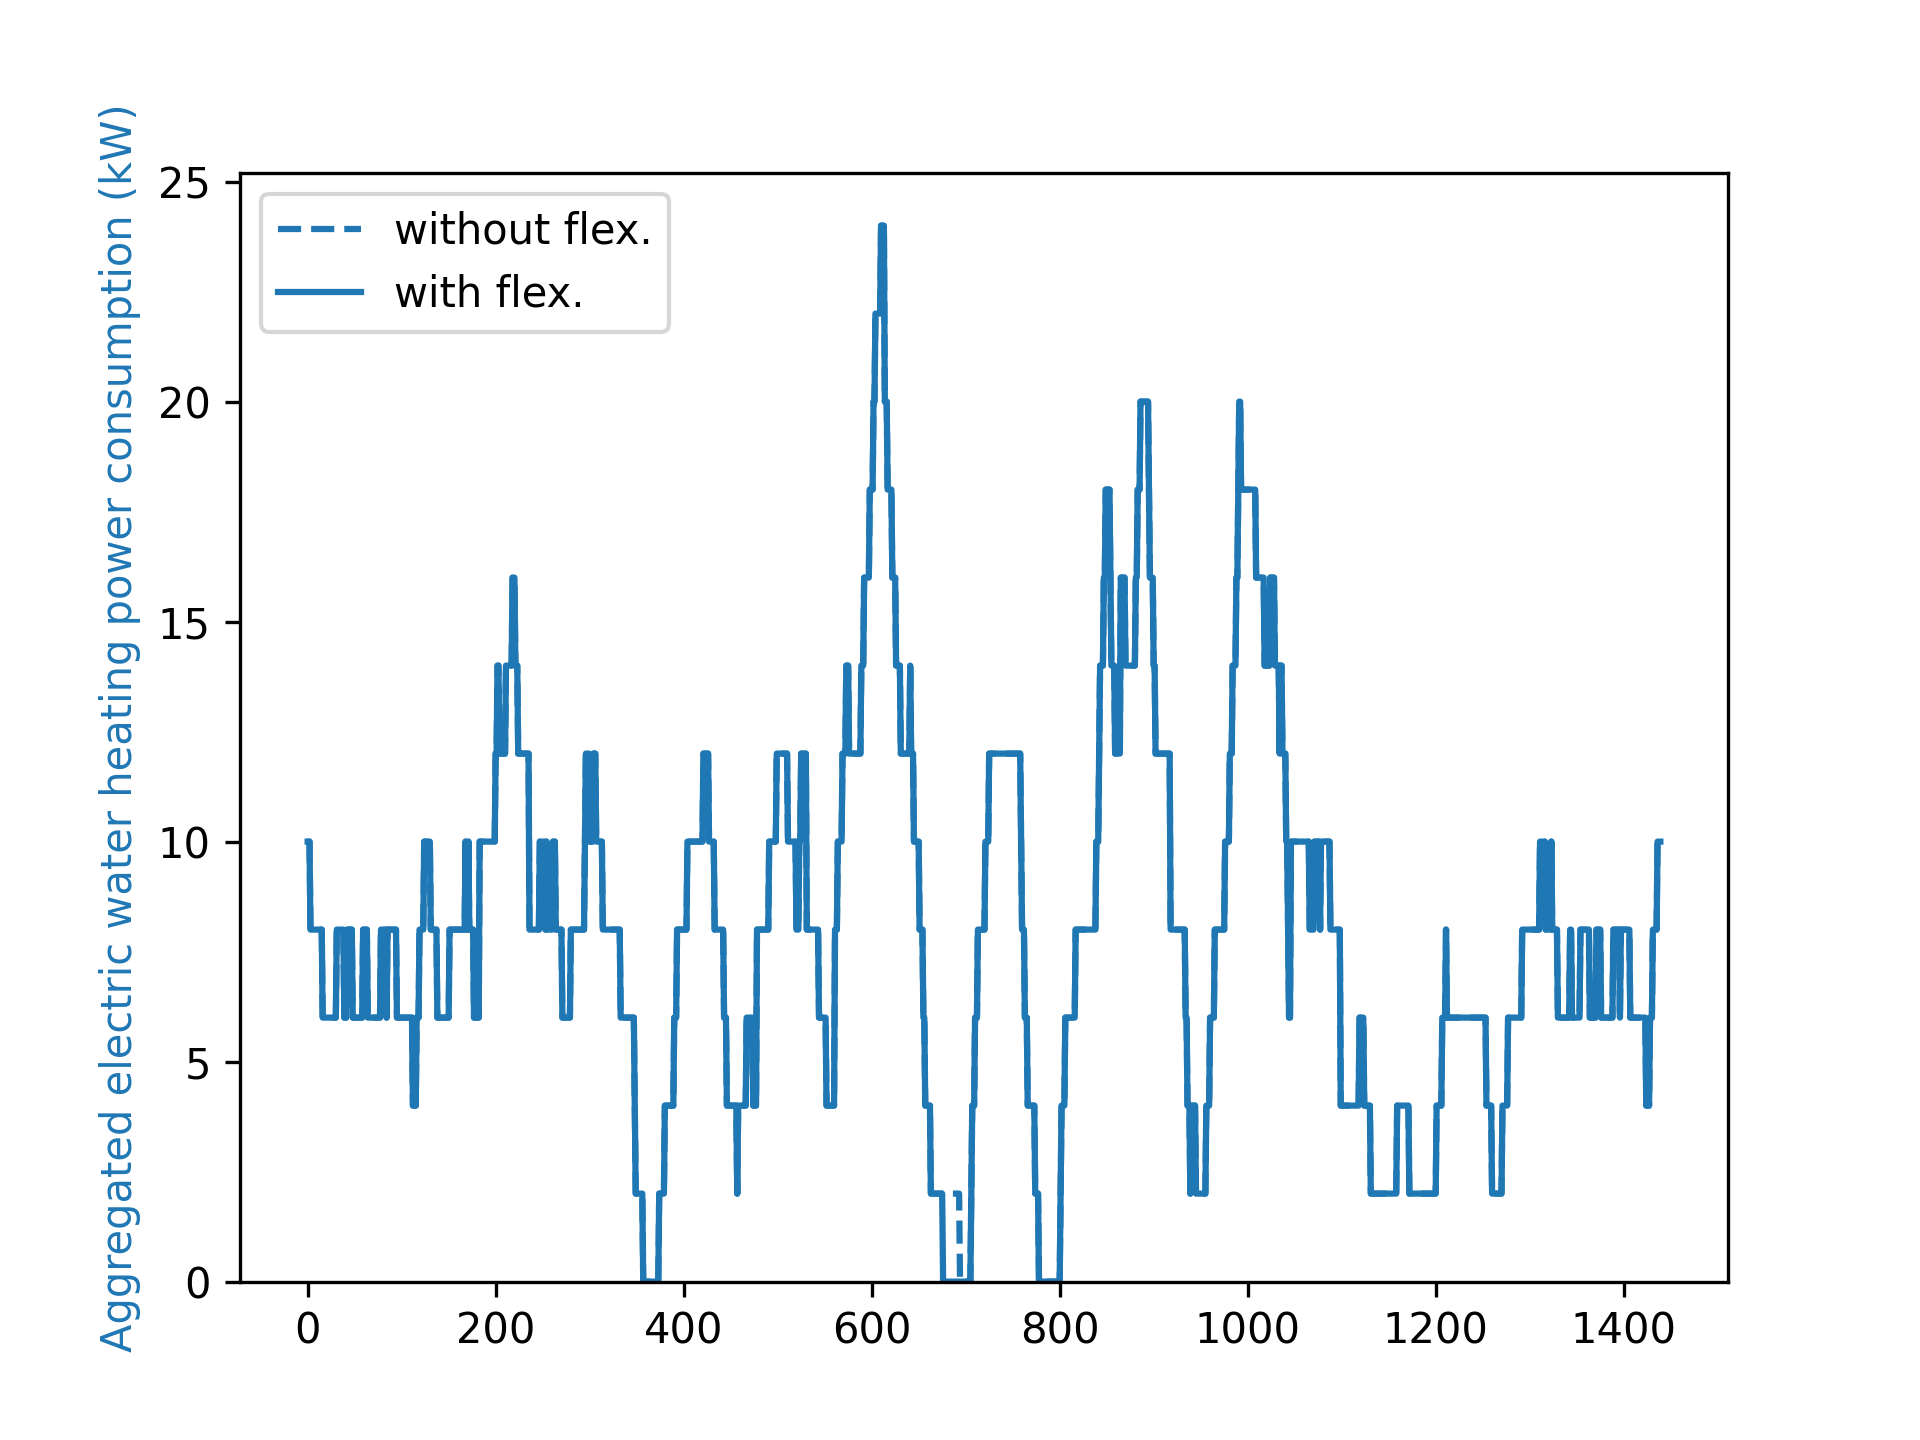
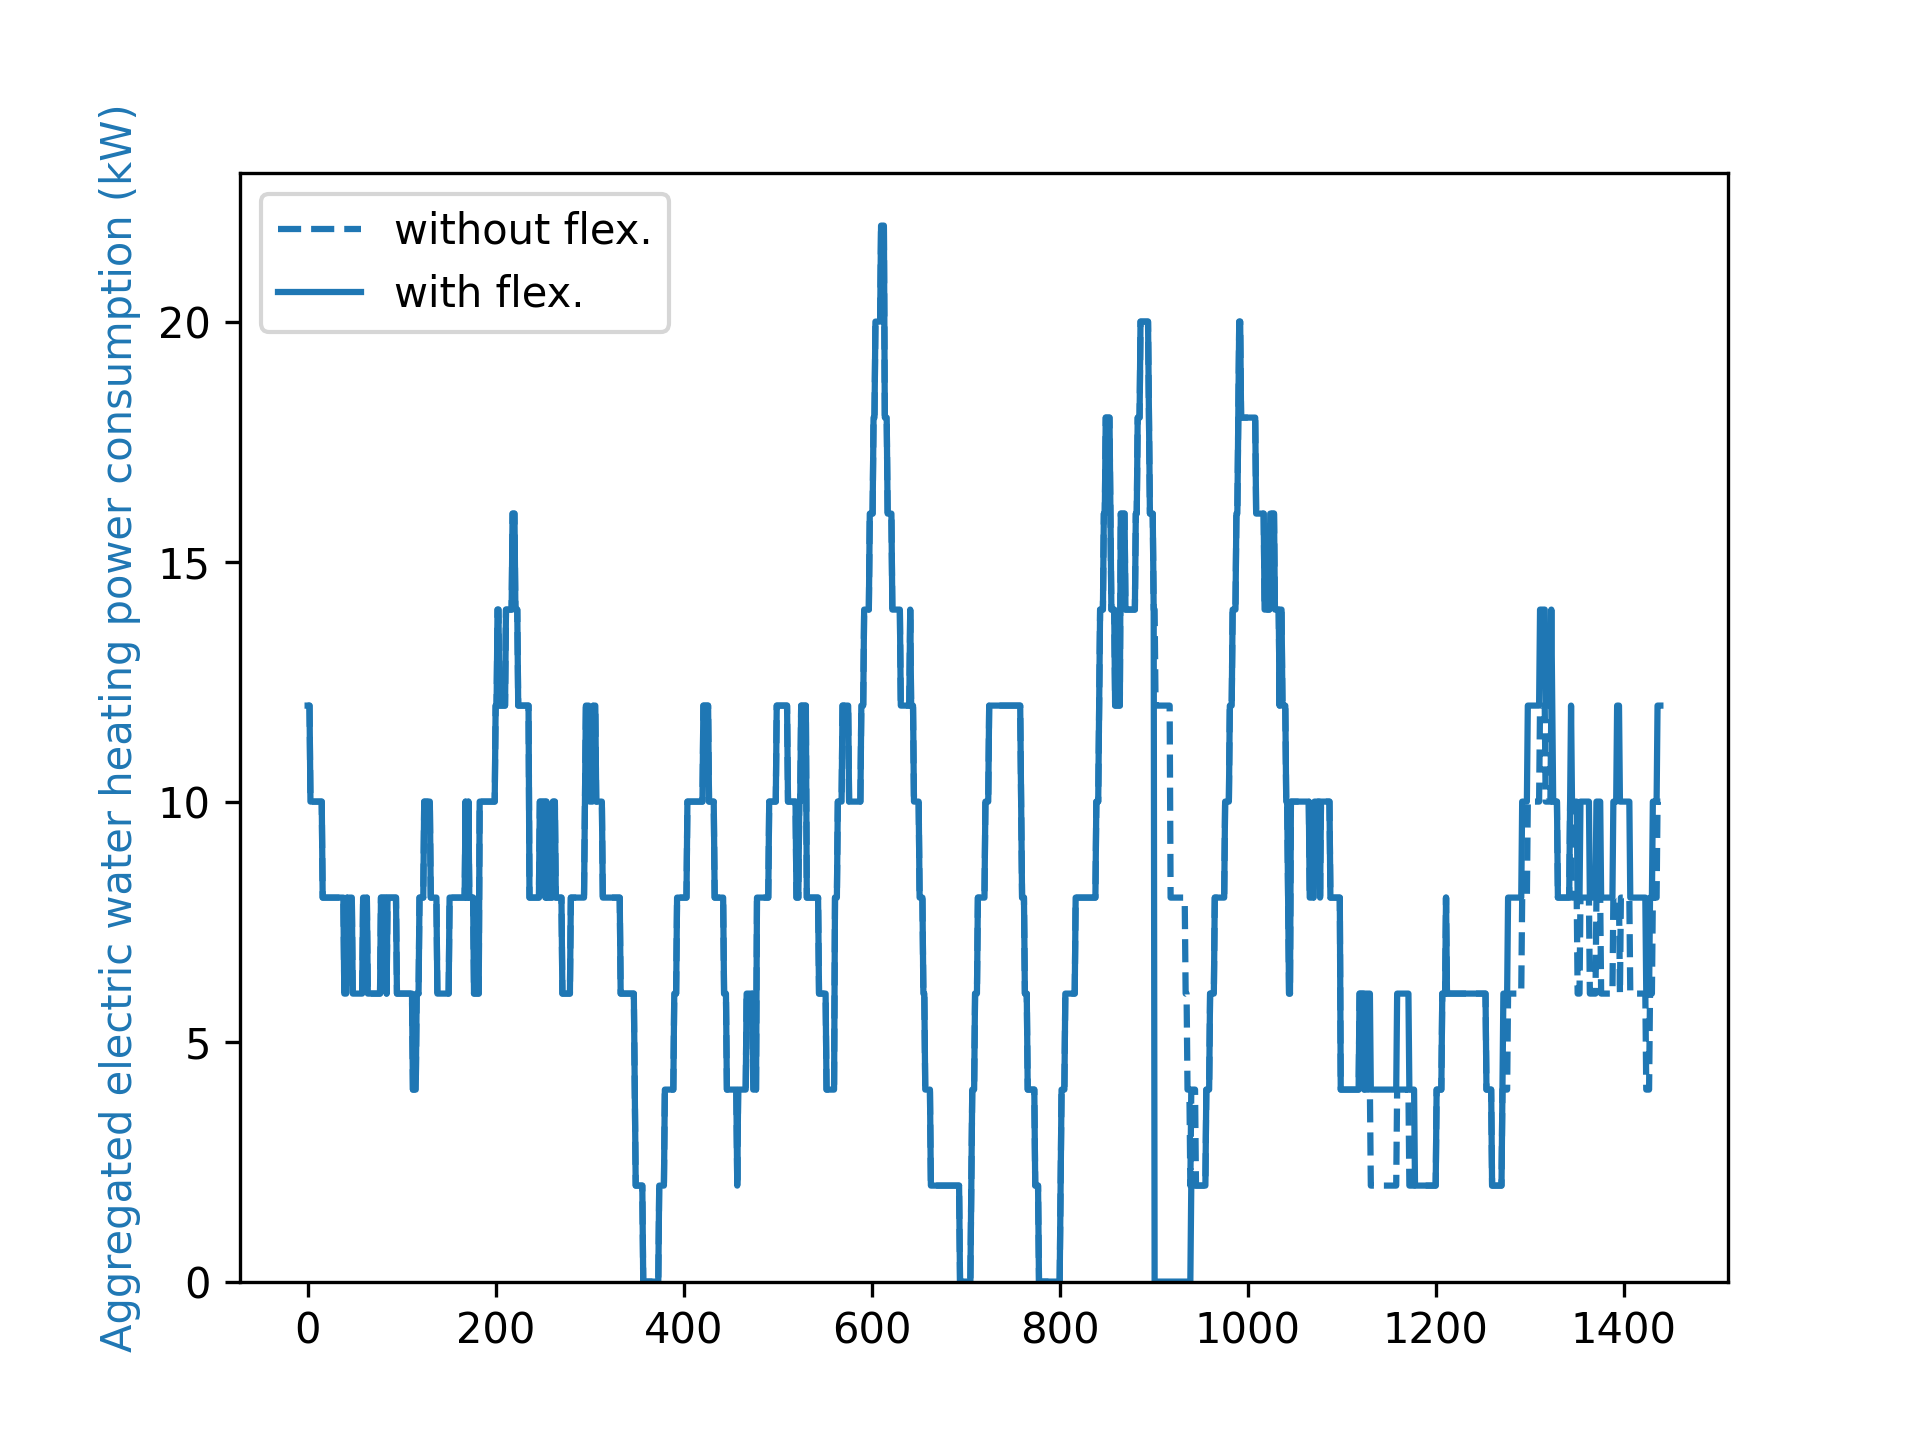
Subplots task 6 c)

diff --git a/Kraftmarkeder - fleksibilitetsmodul/CINELDI_MV_reference_system-flexibility_course_NTNU_public/exercise_1_flexibility_modelling.py b/Kraftmarkeder - fleksibilitetsmodul/CINELDI_MV_reference_system-flexibility_course_NTNU_public/exercise_1_flexibility_modelling.py
@@ -104,8 +104,8 @@ P = 0
 # t_act = None
 # t_act = 240 # Task 6
 # t_act = 785 # Task 1 and 2
-t_act = 675 # Task 6
-# t_act = 900 # Task 6
+# t_act = 675 # Task 6
+t_act = 900 # Task 6
 # 1050
 # Vi må gjøre en vurdering på når vi skal sette t_act. Gir kanskje mer mening å sette den før modellen "uten fleksibilitet" starter?
 
